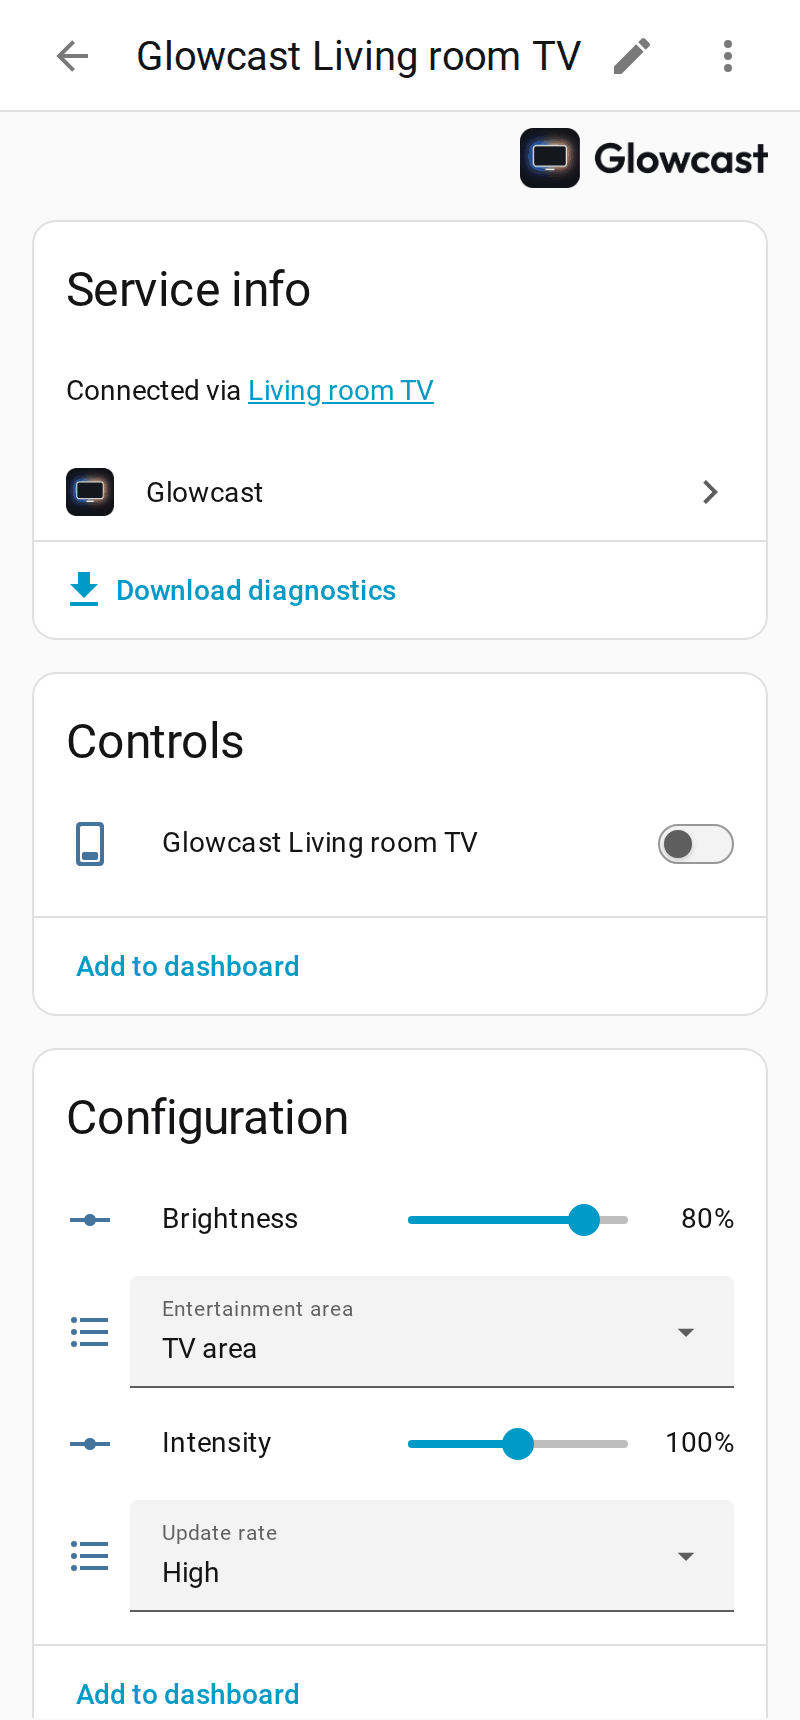
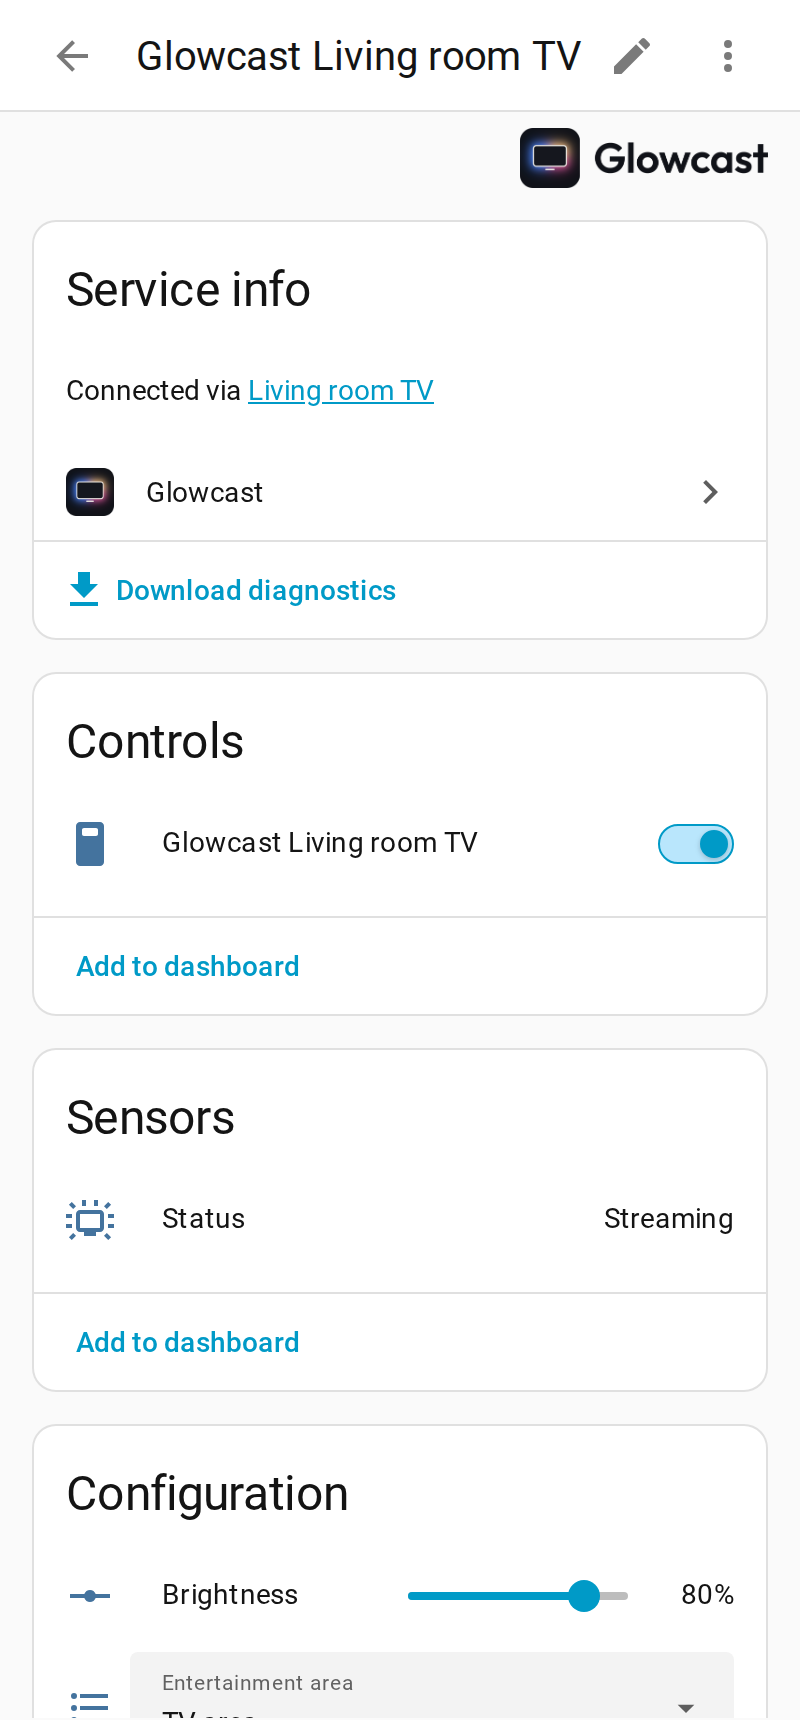
README: the device page with the status sensor (#14)
Made with scripts/demo.py (English, light theme, mobile view) while syncing.

diff --git a/README.md b/README.md
@@ -76,9 +76,9 @@ Under **Configure**, or on Glowcast's device page (see [Settings on the device p
 
 ## Starting and stopping
 
-<img width="400" alt="Glowcast's device page in Home Assistant: the switch under Controls, and brightness, entertainment area, intensity and update rate under Configuration." src="https://raw.githubusercontent.com/nicohabets/glowcast/main/docs/images/device-page.png">
+<img width="400" alt="Glowcast's device page in Home Assistant while syncing: the switch on under Controls, the status Streaming under Sensors, and the settings under Configuration." src="https://raw.githubusercontent.com/nicohabets/glowcast/main/docs/images/device-page.png">
 
-*Glowcast's device page: the switch under Controls, the settings under Configuration.*
+*Glowcast's device page: the switch under Controls, the status under Sensors, the settings under Configuration.*
 
 Glowcast adds one device, "Glowcast *TV name*", with a **switch** under Controls (and its settings under Configuration), for example `switch.glowcast_living_room_tv`. Turn it on to start syncing and off to stop; when it stops, the Hue bridge restores the lights (tested with the Hue app's default "when syncing stops" setting). Glowcast never starts by itself: the switch is off after a restart of Home Assistant. Start it from a dashboard, by voice, or with an automation, for example when the TV turns on. The ready-made blueprint "Start Glowcast when the TV turns on" asks for the TV and the Glowcast switch, and can also turn the switch off when the TV turns off:
 
